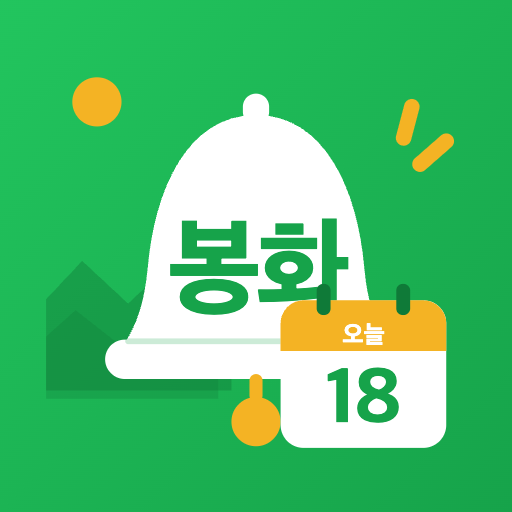
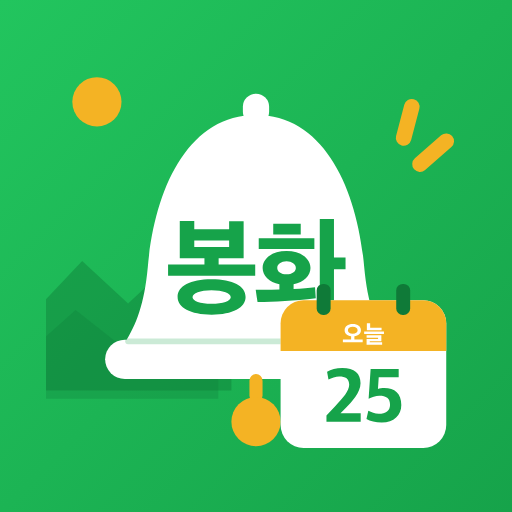
홈 화면 아이콘 날짜를 매일 자동 갱신 — manifest PNG 세 장까지 다시 그리고, 글자를 도형으로 바꿔 글꼴 없이도 그려지게

Changed region(s): [[0.3125, 0.4062, 0.6875, 0.625], [0.625, 0.7188, 0.7812, 0.8438], [0.6875, 0.625, 0.75, 0.6875]]

diff --git a/build/make_icon.py b/build/make_icon.py
@@ -1,23 +1,48 @@
 #!/usr/bin/env python3
-"""make_icon.py — 앱 아이콘 SVG 생성 (달력 숫자에 오늘 날짜)
+"""make_icon.py — 앱 아이콘 만들기 (달력 숫자 = 오늘 날짜)
 
   사용: python3 build/make_icon.py <출력.svg> [일자]
+        python3 build/make_icon.py icon-maskable.svg --maskable [일자]
         일자를 안 주면 오늘 날짜를 쓴다.
 
-바탕화면 아이콘은 한 번 만들어지면 OS가 그 이미지를 계속 쓰므로,
-날짜는 '아이콘을 만든 날' 기준이다. 화면 안 파비콘은 매일 스스로 다시 그린다.
+글자를 <text> 로 두면 그리는 쪽(브라우저·서버)에 그 글꼴이 없을 때
+네모(두부)로 나온다. 그래서 '봉화·오늘·숫자' 를 미리 도형(path)으로 바꿔
+아래 표에 담아 두었다 — 글꼴이 하나도 없는 곳에서도 똑같이 그려진다.
+
+바탕화면에 이미 만들어 둔 아이콘은 OS가 그때의 그림을 계속 쓰므로 바뀌지 않는다.
+이 파일이 하는 일은 '앞으로 새로 설치하는 사람'이 오늘 날짜를 보게 하는 것이다.
+(화면 안 파비콘은 앱이 매일 스스로 다시 그린다.)
 """
 import sys, datetime
 
-def build(day):
+UPM = 1000
+GLYPH = {'봉': {'d': 'M835 287V392H497V448H728V791H594V716H272V792H138V448H366V392H30V287ZM746 91C746 192 629 255 431 255C235 255 118 192 118 91C118 -6 235 -72 433 -72C629 -72 746 -6 746 91ZM609 89C609 56 539 28 431 28C326 28 256 56 256 89C256 126 326 153 431 153C539 153 609 126 609 89ZM594 552H272V614H594Z', 'w': 865}, '화': {'d': 'M526 359C526 447 436 515 305 515C172 515 84 447 84 359C84 287 144 228 239 209V160C163 157 86 157 20 158C25 121 31 81 37 45C193 45 376 54 575 79L568 181C515 174 446 168 370 165V209C465 228 526 287 526 359ZM743 812H612V-79H743V348H850V456H743ZM562 535V634H48V535ZM182 668H436V767H182ZM391 359C391 325 354 300 305 300C255 300 219 325 219 359C219 393 255 421 305 421C354 421 391 393 391 359Z', 'w': 865}, '오': {'d': 'M835 30V135H498V272C661 291 764 387 764 517C764 663 633 765 432 765C232 765 101 663 101 517C101 388 203 292 365 272V135H30V30ZM629 516C629 430 550 371 432 371C312 371 235 430 235 516C235 602 312 659 432 659C552 659 629 602 629 516Z', 'w': 865}, '늘': {'d': 'M738 518V621H274V796H140V518ZM835 363V468H30V363ZM761 -79V30H258V72H729V311H129V208H596V164H129V-79Z', 'w': 865}, '0': {'d': 'M321 29C468 29 597 119 597 366V401C597 645 470 738 323 738C179 738 46 647 46 398V362C46 125 167 29 321 29ZM321 135C234 135 195 210 195 365V408C195 564 236 632 322 632C407 632 450 560 450 401V358C450 198 408 135 321 135Z', 'w': 652}, '1': {'d': 'M141 37H284V730H211L29 650V567L141 588Z', 'w': 375}, '2': {'d': 'M48 41H492V150H230L301 222C371 295 490 417 490 541C490 667 412 738 254 738C174 738 104 716 56 689L74 588C112 608 169 629 212 629C297 629 343 602 343 521C343 440 261 350 167 250L48 123Z', 'w': 536}, '3': {'d': 'M236 31C395 31 489 109 489 238C489 339 431 389 345 405C420 432 466 485 466 567C466 679 383 738 253 738C182 738 97 722 53 699L68 596C108 613 165 628 214 628C286 628 326 605 326 542C326 481 280 449 205 447L138 445V346L213 344C294 342 340 317 340 248C340 176 295 141 211 141C158 141 81 158 47 179L25 79C65 54 152 31 236 31Z', 'w': 536}, '4': {'d': 'M328 27H462V163H566V265H462V730H369L19 239V163H328ZM164 265 329 496V265Z', 'w': 602}, '5': {'d': 'M229 31C388 31 483 130 483 260C483 407 399 479 260 479C236 479 199 474 180 467L190 620H449V727H85L59 339C91 355 156 377 197 377C288 377 337 343 337 262C337 185 282 145 191 145C140 145 94 163 55 183L31 77C77 51 150 31 229 31Z', 'w': 519}, '6': {'d': 'M305 29C464 29 546 135 546 268C546 399 462 473 342 473C273 473 218 445 184 417C194 578 263 625 358 625C405 625 462 609 490 595L514 699C484 716 422 737 353 737C186 737 44 646 44 381V334C44 147 133 29 305 29ZM302 131C219 131 185 198 185 310V316C207 345 254 375 298 375C363 375 412 343 412 257C412 176 369 131 302 131Z', 'w': 587}, '7': {'d': 'M94 41H250L491 645V727H39V618H337Z', 'w': 526}, '8': {'d': 'M299 29C469 29 567 112 567 230C567 325 499 376 420 404C492 436 540 493 540 565C540 674 451 738 300 738C149 738 55 665 55 554C55 470 102 424 172 391C97 361 36 299 36 214C36 104 127 29 299 29ZM295 128C213 128 165 166 165 228C165 283 220 328 279 348C375 326 426 288 426 223C426 167 377 128 295 128ZM317 449C233 468 195 503 195 558C195 607 235 638 302 638C376 638 411 603 411 554C411 503 366 468 317 449Z', 'w': 602}, '9': {'d': 'M270 737C111 737 36 634 36 495C36 363 119 283 240 283C309 283 364 310 398 338C392 170 322 141 227 141C180 141 115 161 87 176L67 73C99 54 166 29 235 29C402 29 538 108 538 385V432C538 627 442 737 270 737ZM274 636C360 636 397 565 397 456V440C376 411 327 382 283 382C218 382 170 420 170 507C170 587 206 636 274 636Z', 'w': 587}}
+
+def txt(s, cx, baseline, size, fill, tracking=0):
+    """글자를 가운데 맞춤으로 놓는다. tracking 은 글자 사이 벌림(px, 음수면 좁힘)."""
+    k = size / UPM
+    adv = [GLYPH[c]['w'] * k for c in s]
+    total = sum(adv) + tracking * (len(s) - 1)
+    x = cx - total / 2
+    out = []
+    for c, a in zip(s, adv):
+        out.append(f'<path d="{GLYPH[c]["d"]}" fill="{fill}" '
+                   f'transform="translate({x:.2f} {baseline}) scale({k:.5f} {-k:.5f})"/>')
+        x += a + tracking
+    return '\n  '.join(out)
+
+def build(day, maskable=False):
+    rx   = '' if maskable else ' rx="112"'
+    open_g  = '<g transform="translate(256 256) scale(.82) translate(-256 -256)">' if maskable else ''
+    close_g = '</g>' if maskable else ''
     return f'''<svg xmlns="http://www.w3.org/2000/svg" viewBox="0 0 512 512">
  <defs>
   <linearGradient id="bg" x1="0" y1="0" x2="1" y2="1">
    <stop offset="0" stop-color="#22C55E"/><stop offset="1" stop-color="#16A34A"/></linearGradient>
-  <clipPath id="round"><rect width="512" height="512" rx="112"/></clipPath>
+  <clipPath id="round"><rect width="512" height="512"{rx}/></clipPath>
  </defs>
- <rect width="512" height="512" rx="112" fill="url(#bg)"/>
-
+ <rect width="512" height="512"{rx} fill="url(#bg)"/>
+ {open_g}
  <!-- 배경: 해와 산 (종 뒤로 살짝) -->
  <g clip-path="url(#round)">
   <circle cx="62" cy="68" r="30" fill="#F4B324"/>
@@ -33,33 +58,30 @@ def build(day):
  <!-- 종 (봉화 글씨를 넉넉히 감싸도록 크게) -->
  <rect x="240" y="58" width="32" height="38" rx="16" fill="#fff"/>
  <path d="M256 84c-84 0-124 92-132 186-4 44-14 70-28 92h320c-14-22-24-48-28-92-8-94-48-186-132-186Z" fill="#fff"/>
- <!-- 종 입(테두리) — 넓게 벌어진 아가리 -->
  <rect x="72" y="358" width="368" height="48" rx="24" fill="#fff"/>
- <!-- 몸통과 아가리 경계선 — 이게 있어야 종으로 보인다 -->
  <path d="M100 360H412" stroke="#16A34A" stroke-width="7" stroke-linecap="round" opacity=".22"/>
- <!-- 달랑거리는 추 (아가리 아래로 완전히 내려온다) -->
  <rect x="248" y="400" width="16" height="34" rx="8" fill="#F4B324"/>
  <circle cx="256" cy="458" r="30" fill="#F4B324"/>
 
- <text x="256" y="318" font-family="-apple-system,'Apple SD Gothic Neo','Noto Sans KR',sans-serif"
-       font-size="132" font-weight="800" fill="#16A34A" text-anchor="middle" letter-spacing="-6">봉화</text>
+ {txt('봉화', 256, 318, 132, '#16A34A', -6)}
 
- <!-- 오늘 날짜 — 작아서 안 보이던 숫자를 크게 (봉화 글씨와 겹쳐도 됨) -->
+ <!-- 오늘 날짜 -->
  <g>
   <rect x="286" y="310" width="202" height="180" rx="28" fill="#fff"/>
   <path d="M286 338a28 28 0 0 1 28-28h146a28 28 0 0 1 28 28v34H286Z" fill="#F4B324"/>
   <rect x="330" y="290" width="17" height="38" rx="8" fill="#0F7A38"/>
   <rect x="427" y="290" width="17" height="38" rx="8" fill="#0F7A38"/>
-  <text x="387" y="362" font-family="-apple-system,'Apple SD Gothic Neo','Noto Sans KR',sans-serif"
-        font-size="30" font-weight="800" fill="#fff" text-anchor="middle">오늘</text>
-  <text x="387" y="462" font-family="-apple-system,'Apple SD Gothic Neo','Noto Sans KR',sans-serif"
-        font-size="94" font-weight="800" fill="#16A34A" text-anchor="middle">{day}</text>
+  {txt('오늘', 387, 362, 30, '#fff')}
+  {txt(day, 387, 462, 94, '#16A34A')}
  </g>
+ {close_g}
 </svg>
 '''
 
 if __name__ == '__main__':
-    out = sys.argv[1] if len(sys.argv) > 1 else 'icon.svg'
-    day = sys.argv[2] if len(sys.argv) > 2 else str(datetime.date.today().day)
-    open(out, 'w', encoding='utf-8').write(build(day))
-    print(f'{out} 생성 (달력 숫자: {day})')
+    args = [a for a in sys.argv[1:] if a != '--maskable']
+    maskable = '--maskable' in sys.argv[1:]
+    out = args[0] if args else 'icon.svg'
+    day = args[1] if len(args) > 1 else str(datetime.date.today().day)
+    open(out, 'w', encoding='utf-8').write(build(day, maskable))
+    print(f'{out} 생성 (달력 숫자: {day}{", 마스커블" if maskable else ""})')
